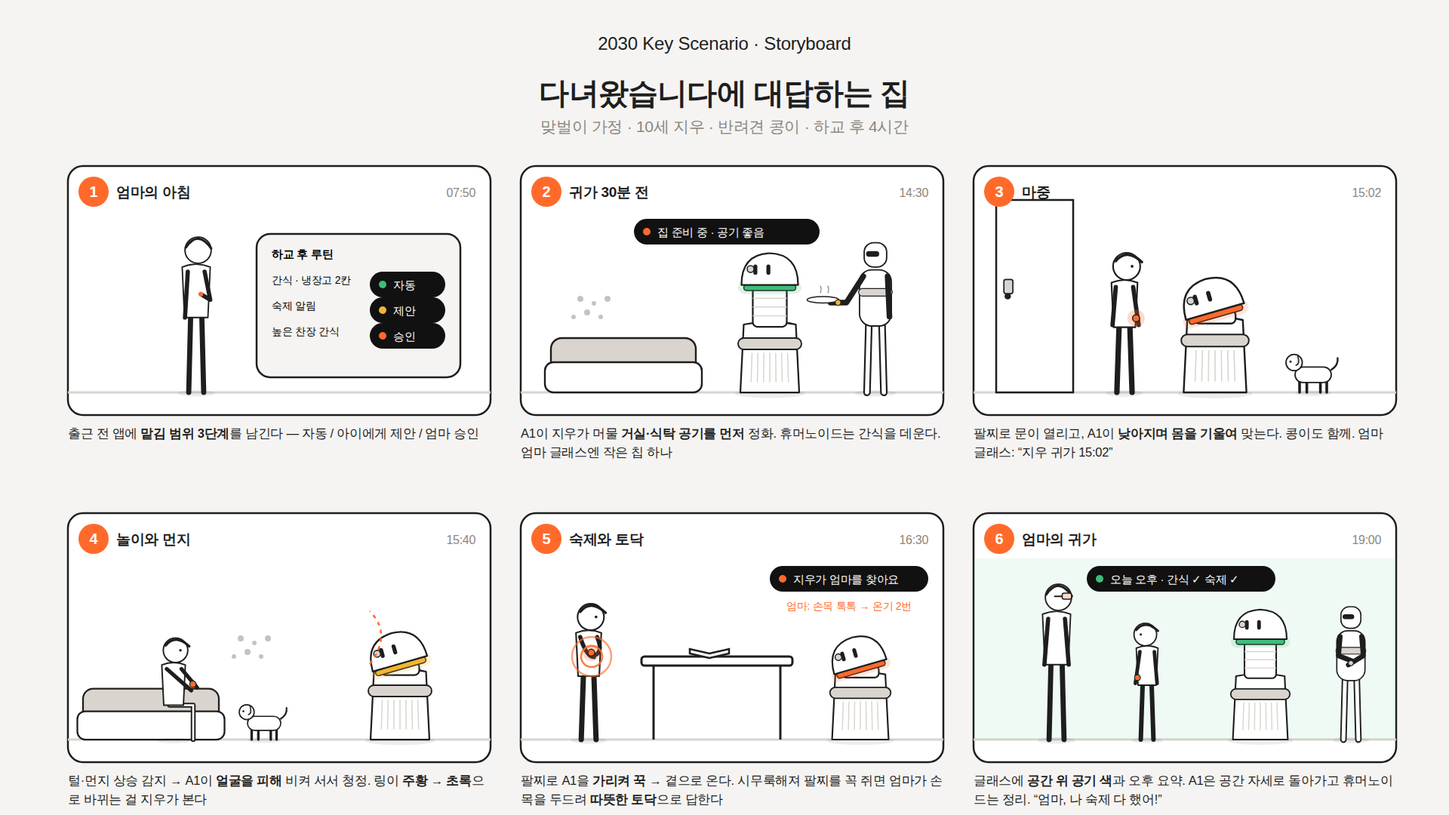
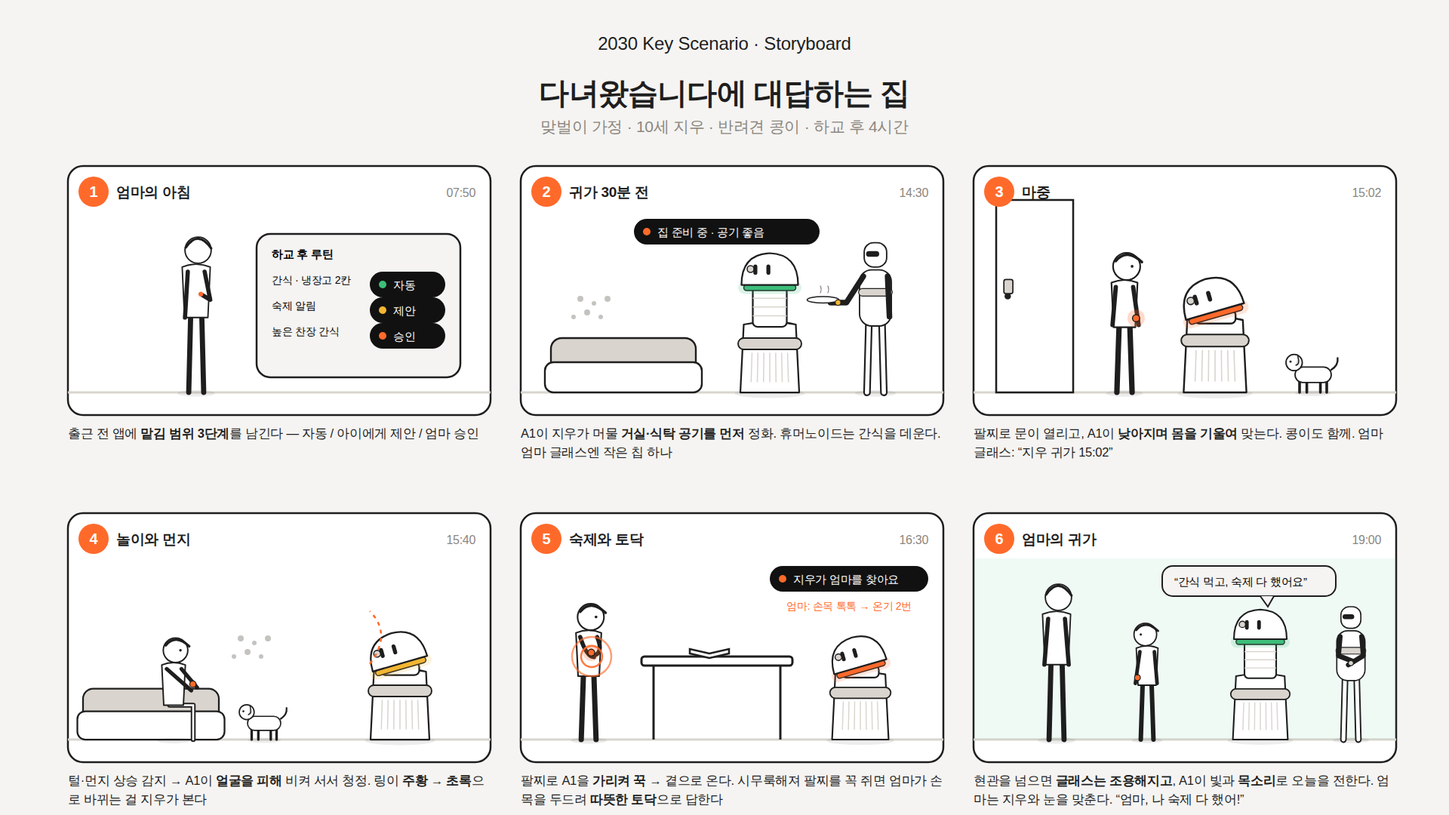
Add child/mom interaction spec; limit smart glasses to outside the home
Claude-Session: https://claude.ai/code/session_015ij7eoa9a3ivc7ktEptW1b

Changed region(s): [[0.6562, 0.9472, 0.9688, 1.0], [0.75, 0.6722, 0.9062, 0.7333]]

diff --git a/images/src/04_storyboard.html b/images/src/04_storyboard.html
@@ -85,15 +85,15 @@ svg text,div{font-family:Pretendard,sans-serif;letter-spacing:-0.3px}
       <clipPath id="cp6"><rect width="560" height="330" rx="20"/></clipPath>
       <g clip-path="url(#cp6)"><line x1="0" y1="300" x2="560" y2="300" stroke="#D9D5CE" stroke-width="3"/>
      <rect x="0" y="60" width="560" height="240" fill="#3DBE7A" opacity="0.08"/>
-     <g transform="translate(110 300) scale(0.62)"><ellipse cx="0" cy="2" rx="40" ry="7" fill="#1E1E1E" opacity="0.08"/><path d="M -12 -160 L -16 0 M 12 -160 L 16 0" fill="none" stroke="#1E1E1E" stroke-width="11" stroke-linecap="round" stroke-linejoin="round"/><path d="M -30 -268 Q 0 -280 30 -268 L 25 -160 L -25 -160 Z" fill="#FFFFFF" stroke="#1E1E1E" stroke-width="3" stroke-linecap="round" stroke-linejoin="round"/><circle cx="4" cy="-304" r="28" fill="#FFFFFF" stroke="#1E1E1E" stroke-width="3" stroke-linecap="round" stroke-linejoin="round"/><path d="M -22 -310 Q 4 -348 32 -308" fill="none" stroke="#1E1E1E" stroke-width="5" stroke-linecap="round" stroke-linejoin="round"/><line x1="-4" y1="-306" x2="34" y2="-306" stroke="#1E1E1E" stroke-width="3" stroke-linecap="round" stroke-linejoin="round"/><rect x="12" y="-313" width="20" height="13" rx="4" fill="#FFD9C7" stroke="#1E1E1E" stroke-width="2.5" stroke-linecap="round" stroke-linejoin="round"/><path d="M 18 -258 L 26 -160" fill="none" stroke="#1E1E1E" stroke-width="9" stroke-linecap="round" stroke-linejoin="round"/><path d="M -18 -258 L -26 -160" fill="none" stroke="#1E1E1E" stroke-width="9" stroke-linecap="round" stroke-linejoin="round"/></g>
+     <g transform="translate(110 300) scale(0.62)"><ellipse cx="0" cy="2" rx="40" ry="7" fill="#1E1E1E" opacity="0.08"/><path d="M -12 -160 L -16 0 M 12 -160 L 16 0" fill="none" stroke="#1E1E1E" stroke-width="11" stroke-linecap="round" stroke-linejoin="round"/><path d="M -30 -268 Q 0 -280 30 -268 L 25 -160 L -25 -160 Z" fill="#FFFFFF" stroke="#1E1E1E" stroke-width="3" stroke-linecap="round" stroke-linejoin="round"/><circle cx="4" cy="-304" r="28" fill="#FFFFFF" stroke="#1E1E1E" stroke-width="3" stroke-linecap="round" stroke-linejoin="round"/><path d="M -22 -310 Q 4 -348 32 -308" fill="none" stroke="#1E1E1E" stroke-width="5" stroke-linecap="round" stroke-linejoin="round"/><path d="M 18 -258 L 26 -160" fill="none" stroke="#1E1E1E" stroke-width="9" stroke-linecap="round" stroke-linejoin="round"/><path d="M -18 -258 L -26 -160" fill="none" stroke="#1E1E1E" stroke-width="9" stroke-linecap="round" stroke-linejoin="round"/></g>
      <g transform="translate(230 300) scale(0.6)"><ellipse cx="0" cy="2" rx="34" ry="6" fill="#1E1E1E" opacity="0.08"/><path d="M -10 -120 L -14 0 M 10 -120 L 14 0" fill="none" stroke="#1E1E1E" stroke-width="10" stroke-linecap="round" stroke-linejoin="round"/><path d="M -24 -202 Q 0 -212 24 -202 L 20 -120 L -20 -120 Z" fill="#FFFFFF" stroke="#1E1E1E" stroke-width="3" stroke-linecap="round" stroke-linejoin="round"/><circle cx="-4" cy="-232" r="25" fill="#FFFFFF" stroke="#1E1E1E" stroke-width="3" stroke-linecap="round" stroke-linejoin="round"/><path d="M -24 -242 Q -4 -266 24 -240" fill="none" stroke="#1E1E1E" stroke-width="5" stroke-linecap="round" stroke-linejoin="round"/><circle cx="-14" cy="-232" r="2.6" fill="#1E1E1E"/><path d="M -16 -194 L -26 -124" fill="none" stroke="#1E1E1E" stroke-width="8" stroke-linecap="round" stroke-linejoin="round"/><path d="M 16 -194 L 22 -124" fill="none" stroke="#1E1E1E" stroke-width="8" stroke-linecap="round" stroke-linejoin="round"/><circle cx="-21.32" cy="-136.6" r="6.5" fill="#FF6A2B" stroke="#1E1E1E" stroke-width="2"/></g>
      <g transform="translate(380 300) scale(0.7)"><ellipse cx="0" cy="2" rx="62" ry="8" fill="#1E1E1E" opacity="0.08"/><path d="M -52 0 L -46 -120 Q 0 -130 46 -120 L 52 0 Z" fill="#FFFFFF" stroke="#1E1E1E" stroke-width="3" stroke-linecap="round" stroke-linejoin="round"/><line x1="-33" y1="-18" x2="-31.349999999999998" y2="-70" stroke="#D9D5CE" stroke-width="2"/><line x1="-22" y1="-18" x2="-20.9" y2="-70" stroke="#D9D5CE" stroke-width="2"/><line x1="-11" y1="-18" x2="-10.45" y2="-70" stroke="#D9D5CE" stroke-width="2"/><line x1="0" y1="-18" x2="0" y2="-70" stroke="#D9D5CE" stroke-width="2"/><line x1="11" y1="-18" x2="10.45" y2="-70" stroke="#D9D5CE" stroke-width="2"/><line x1="22" y1="-18" x2="20.9" y2="-70" stroke="#D9D5CE" stroke-width="2"/><line x1="33" y1="-18" x2="31.349999999999998" y2="-70" stroke="#D9D5CE" stroke-width="2"/><rect x="-56" y="-96" width="112" height="20" rx="10" fill="#D9D5CE" stroke="#1E1E1E" stroke-width="2.5" stroke-linecap="round" stroke-linejoin="round"/><rect x="-30" y="-186" width="60" height="70" rx="8" fill="#FFFFFF" stroke="#1E1E1E" stroke-width="3" stroke-linecap="round" stroke-linejoin="round"/><line x1="-30" y1="-135.5" x2="30" y2="-135.5" stroke="#D9D5CE" stroke-width="2"/><line x1="-30" y1="-151" x2="30" y2="-151" stroke="#D9D5CE" stroke-width="2"/><line x1="-30" y1="-166.5" x2="30" y2="-166.5" stroke="#D9D5CE" stroke-width="2"/><g transform="translate(0 -182) rotate(0 0 -8)"><rect x="-46" y="-8" width="92" height="10" rx="5" fill="#3DBE7A" stroke="#1E1E1E" stroke-width="2" stroke-linecap="round" stroke-linejoin="round"/><rect x="-56" y="-14" width="112" height="22" rx="11" fill="#3DBE7A" opacity="0.18"/><path d="M -50 -8 Q -50 -62 0 -64 Q 50 -62 50 -8 Z" fill="#FFFFFF" stroke="#1E1E1E" stroke-width="3" stroke-linecap="round" stroke-linejoin="round"/><rect x="-29" y="-44" width="7" height="18" rx="3.5" fill="#1E1E1E"/><rect x="-6" y="-44" width="7" height="18" rx="3.5" fill="#1E1E1E"/><circle cx="-34" cy="-36" r="6" fill="#D9D5CE" stroke="#1E1E1E" stroke-width="2" stroke-linecap="round" stroke-linejoin="round"/></g></g>
      <g transform="translate(500 300) scale(0.55)"><ellipse cx="0" cy="2" rx="44" ry="7" fill="#1E1E1E" opacity="0.08"/><path d="M -14 -150 L -18 0 M 14 -150 L 18 0" fill="none" stroke="#1E1E1E" stroke-width="16" stroke-linecap="round" stroke-linejoin="round"/><path d="M -14 -150 L -18 0 M 14 -150 L 18 0" fill="none" stroke="#FFFFFF" stroke-width="9" stroke-linecap="round"/><rect x="-34" y="-262" width="68" height="120" rx="26" fill="#FFFFFF" stroke="#1E1E1E" stroke-width="3" stroke-linecap="round" stroke-linejoin="round"/><rect x="-36" y="-222" width="72" height="16" rx="8" fill="#D9D5CE" stroke="#1E1E1E" stroke-width="2" stroke-linecap="round" stroke-linejoin="round"/><rect x="-24" y="-320" width="48" height="52" rx="20" fill="#FFFFFF" stroke="#1E1E1E" stroke-width="3" stroke-linecap="round" stroke-linejoin="round"/><rect x="-20" y="-302" width="28" height="12" rx="6" fill="#1E1E1E"/><path d="M -26 -248 L -30 -202 L 6 -188" fill="none" stroke="#1E1E1E" stroke-width="12" stroke-linecap="round" stroke-linejoin="round"/><path d="M 26 -248 L 30 -202 L -6 -180" fill="none" stroke="#1E1E1E" stroke-width="12" stroke-linecap="round" stroke-linejoin="round"/><circle cx="0" cy="-184" r="6" fill="#D9D5CE" stroke="#1E1E1E" stroke-width="2" stroke-linecap="round" stroke-linejoin="round"/></g>
-     <g transform="translate(150 70)"><rect width="250" height="34" rx="17" fill="#111111"/><circle cx="17" cy="17" r="5" fill="#3DBE7A"/><text x="31" y="23" font-size="15" fill="#fff">오늘 오후 · 간식 ✓ 숙제 ✓</text></g></g>
+     <g transform="translate(250 70)"><rect width="230" height="40" rx="14" fill="#F5F4F2" stroke="#1E1E1E" stroke-width="2"/><path d="M 130 40 l 10 14 l 8 -14" fill="#F5F4F2" stroke="#1E1E1E" stroke-width="2"/><text x="16" y="26" font-size="15">“간식 먹고, 숙제 다 했어요”</text></g></g>
       <circle cx="34" cy="34" r="20" fill="#FF6A2B"/><text x="34" y="41" font-size="20" font-weight="700" fill="#fff" text-anchor="middle">6</text>
       <text x="64" y="41" font-size="19" font-weight="700" fill="#1E1E1E">엄마의 귀가</text>
       <text x="540" y="41" font-size="16" fill="#8C8780" text-anchor="end">19:00</text>
-      <foreignObject x="0" y="342" width="560" height="100"><div xmlns="http://www.w3.org/1999/xhtml" style="font-family:Pretendard,sans-serif;font-size:16.5px;line-height:1.5;color:#1E1E1E">글래스에 <b>공간 위 공기 색</b>과 오후 요약. A1은 공간 자세로 돌아가고 휴머노이드는 정리. “엄마, 나 숙제 다 했어!”</div></foreignObject>
+      <foreignObject x="0" y="342" width="560" height="100"><div xmlns="http://www.w3.org/1999/xhtml" style="font-family:Pretendard,sans-serif;font-size:16.5px;line-height:1.5;color:#1E1E1E">현관을 넘으면 <b>글래스는 조용해지고</b>, A1이 빛과 <b>목소리</b>로 오늘을 전한다. 엄마는 지우와 눈을 맞춘다. “엄마, 나 숙제 다 했어!”</div></foreignObject>
     </g>
 </svg>
 

diff --git a/images/src/06_state_language.html b/images/src/06_state_language.html
@@ -19,6 +19,6 @@ td:last-child{border-radius:0 14px 14px 0}
 .st{font-weight:700;width:270px}
 .sw{display:inline-block;width:64px;height:14px;border-radius:7px;margin-right:14px;vertical-align:middle;border:2px solid #1E1E1E}
 </style>
-<table><tr><th>상태</th><th>A1 링 라이트 / 휴머노이드 손목 빛</th><th>아이 팔찌</th><th>엄마 글래스</th><th>소리</th></tr><tr><td class="st">대기 · 괜찮음</td><td><span class="sw" style="background:#F0EEEA"></span>느린 숨</td><td>—</td><td>—</td><td>—</td></tr><tr><td class="st">듣는 중</td><td><span class="sw" style="background:#FFFFFF"></span>목소리 물결</td><td>—</td><td>—</td><td>—</td></tr><tr><td class="st">선택됨 (가리킴)</td><td><span class="sw" style="background:#FF6A2B"></span>아이 쪽으로 모임</td><td>톡 1회</td><td>—</td><td>짧은 띵</td></tr><tr><td class="st">이동 · 작업 중</td><td><span class="sw" style="background:#FF6A2B"></span>진행 방향 흐름</td><td>—</td><td>“간식 데우는 중 · 3분”</td><td>—</td></tr><tr><td class="st">확인 필요</td><td><span class="sw" style="background:#F2B632"></span>천천히 깜빡</td><td>톡톡 2회</td><td>승인 카드</td><td>물음 억양</td></tr><tr><td class="st">완료</td><td><span class="sw" style="background:#3DBE7A"></span>한 번 퍼짐</td><td>—</td><td>칩 사라짐</td><td>하강 2음</td></tr><tr><td class="st">공기 상태</td><td><span class="sw" style="background:linear-gradient(90deg,#3DBE7A,#F2B632,#FF6A2B)"></span>색만 (초록→주황)</td><td>—</td><td>귀가 시 공간 오버레이</td><td>—</td></tr><tr><td class="st">엄마의 토닥</td><td><span class="sw" style="background:#FFB08A"></span>—</td><td>온기 + 느린 진동 2회</td><td>—</td><td>—</td></tr><tr><td class="st">보고 있음</td><td><span class="sw" style="background:#1E1E1E"></span>셔터 열림 + 표시등</td><td>—</td><td>—</td><td>—</td></tr></table>
+<table><tr><th>상태</th><th>A1 링 라이트 / 휴머노이드 손목 빛</th><th>아이 팔찌</th><th>엄마 글래스</th><th>소리</th></tr><tr><td class="st">대기 · 괜찮음</td><td><span class="sw" style="background:#F0EEEA"></span>느린 숨</td><td>—</td><td>—</td><td>—</td></tr><tr><td class="st">듣는 중</td><td><span class="sw" style="background:#FFFFFF"></span>목소리 물결</td><td>—</td><td>—</td><td>—</td></tr><tr><td class="st">선택됨 (가리킴)</td><td><span class="sw" style="background:#FF6A2B"></span>아이 쪽으로 모임</td><td>톡 1회</td><td>—</td><td>짧은 띵</td></tr><tr><td class="st">이동 · 작업 중</td><td><span class="sw" style="background:#FF6A2B"></span>진행 방향 흐름</td><td>—</td><td>“간식 데우는 중 · 3분”</td><td>—</td></tr><tr><td class="st">확인 필요</td><td><span class="sw" style="background:#F2B632"></span>천천히 깜빡</td><td>톡톡 2회</td><td>승인 카드</td><td>물음 억양</td></tr><tr><td class="st">완료</td><td><span class="sw" style="background:#3DBE7A"></span>한 번 퍼짐</td><td>—</td><td>칩 사라짐</td><td>하강 2음</td></tr><tr><td class="st">공기 상태</td><td><span class="sw" style="background:linear-gradient(90deg,#3DBE7A,#F2B632,#FF6A2B)"></span>색만 (초록→주황)</td><td>—</td><td>집 밖에서 칩 색으로만</td><td>—</td></tr><tr><td class="st">엄마의 토닥</td><td><span class="sw" style="background:#FFB08A"></span>—</td><td>온기 + 느린 진동 2회</td><td>—</td><td>—</td></tr><tr><td class="st">보고 있음</td><td><span class="sw" style="background:#1E1E1E"></span>셔터 열림 + 표시등</td><td>—</td><td>—</td><td>—</td></tr></table>
 
 </body></html>

diff --git a/images/src/more.js b/images/src/more.js
@@ -133,12 +133,12 @@ module.exports = function addPages(pages) {
     '팔찌로 A1을 <b>가리켜 꾹</b> → 곁으로 온다. 시무룩해져 팔찌를 꼭 쥐면 엄마가 손목을 두드려 <b>따뜻한 토닥</b>으로 답한다')}
   ${panel(6, 2, 1, '엄마의 귀가', '19:00', `${floor()}
      <rect x="0" y="60" width="${pw}" height="240" fill="${C.green}" opacity="0.08"/>
-     ${adult(110, 300, { dir: 1, scale: 0.62 })}
+     ${adult(110, 300, { dir: 1, scale: 0.62, glasses: false })}
      ${child(230, 300, { dir: -1, scale: 0.6 })}
      ${a1(380, 300, { mode: 'space', dir: -1, scale: 0.7, glow: C.green })}
      ${humanoid(500, 300, { dir: -1, scale: 0.55, pose: 'yield' })}
-     ${chipSvg(150, 70, '오늘 오후 · 간식 ✓ 숙제 ✓', { w: 250, dot: C.green })}`,
-    '글래스에 <b>공간 위 공기 색</b>과 오후 요약. A1은 공간 자세로 돌아가고 휴머노이드는 정리. “엄마, 나 숙제 다 했어!”')}
+     <g transform="translate(250 70)"><rect width="230" height="40" rx="14" fill="${C.paper}" stroke="${C.ink}" stroke-width="2"/><path d="M 130 40 l 10 14 l 8 -14" fill="${C.paper}" stroke="${C.ink}" stroke-width="2"/><text x="16" y="26" font-size="15">“간식 먹고, 숙제 다 했어요”</text></g>`,
+    '현관을 넘으면 <b>글래스는 조용해지고</b>, A1이 빛과 <b>목소리</b>로 오늘을 전한다. 엄마는 지우와 눈을 맞춘다. “엄마, 나 숙제 다 했어!”')}
 </svg>
 `);
 
@@ -178,7 +178,7 @@ module.exports = function addPages(pages) {
     ['이동 · 작업 중', C.orange, '진행 방향 흐름', '—', '“간식 데우는 중 · 3분”', '—'],
     ['확인 필요', C.yellow, '천천히 깜빡', '톡톡 2회', '승인 카드', '물음 억양'],
     ['완료', C.green, '한 번 퍼짐', '—', '칩 사라짐', '하강 2음'],
-    ['공기 상태', 'linear-gradient(90deg,#3DBE7A,#F2B632,#FF6A2B)', '색만 (초록→주황)', '—', '귀가 시 공간 오버레이', '—'],
+    ['공기 상태', 'linear-gradient(90deg,#3DBE7A,#F2B632,#FF6A2B)', '색만 (초록→주황)', '—', '집 밖에서 칩 색으로만', '—'],
     ['엄마의 토닥', '#FFB08A', '—', '온기 + 느린 진동 2회', '—', '—'],
     ['보고 있음', C.ink, '셔터 열림 + 표시등', '—', '—', '—'],
   ];

diff --git a/interaction-child-mom.md b/interaction-child-mom.md
@@ -1,0 +1,168 @@
+# 아이와 엄마는 어떻게 인터랙션하는가
+
+> 키시나리오 「다녀왔습니다에 대답하는 집」의 인터랙션을 **사용자별로** 정리한 문서.
+> 상세 레퍼런스는 `interaction-design.md` 참고.
+
+---
+
+## 0. 전제 — AR(스마트글래스)은 집 밖에서만 쓴다
+
+**스마트글래스는 집 밖에 있는 엄마가 집과 연결되는 창이다. 집 안에서는 쓰지 않는다.**
+
+| 이유 | 설명 |
+|---|---|
+| **집은 화면 없는 공간** | 우리가 그리는 퓨처홈은 “화면을 보지 않아도 집이 알아서 맞춰 주는 곳”이다. 집 안에서까지 시야에 정보를 띄우면 이 비전과 어긋난다. |
+| **가족과 눈을 마주쳐야 할 때** | 엄마가 귀가해 아이를 마주하는 순간에 글래스 속 정보를 보면 아이에게 집중하지 못한다. |
+| **집에서는 벗는다** | 글래스는 출퇴근·업무용 기기다. 집 안에서도 착용해야 하는 시나리오는 억지스럽다. |
+| **집 안에는 이미 대체 수단이 있다** | 집 안에서는 Next A1의 몸·빛·소리, 음성, 팔찌로 충분하다. 같은 정보를 두 곳에 보여줄 필요가 없다. |
+
+**인계(핸드오프) 규칙:** 엄마가 현관에 들어서는 순간 글래스는 조용해지고, 그때부터 집의 정보는 **A1의 링 라이트와 음성**이 맡는다. 집을 나서면 다시 글래스로 넘어간다.
+
+```
+[집 밖]  엄마 ── 글래스(보기) + 손목(답하기) ──▶ 집
+              ────────── 현관 ──────────
+[집 안]  엄마 ── 말 · A1의 빛과 몸 · 앱(필요할 때만) ──▶ 집
+         지우 ── 말 · 팔찌 · A1 만지기 ──▶ 집        (지우는 처음부터 화면 없음)
+```
+
+---
+
+## 1. 아이(지우, 10세)의 인터랙션
+
+### 1.1 원칙
+- **화면이 없다.** 지우는 폰도 글래스도 없다. 팔찌와 목소리, 손이 전부다.
+- **외울 것이 거의 없다.** 팔찌 동작은 세 가지뿐: **가리키기 · 꾹 누르기 · 꼭 쥐기**.
+- **로봇이 몸으로 대답한다.** A1과 휴머노이드는 말보다 **자세·빛·짧은 소리**로 응답한다.
+- **아이가 스스로 하게 둔다.** 로봇은 다 해 주는 대신, 엄마가 정한 범위에서 **도와준다**.
+
+### 1.2 아이가 쓰는 입력
+
+| 입력 | 어떻게 | 무슨 뜻 | 기기 |
+|---|---|---|---|
+| **현관 들어오기** | 팔찌를 찬 채 문 앞에 섬 | “나 왔어” (UWB로 문이 열림) | 팔찌 → 도어락 |
+| **말하기** | “콩이 물 줘”, “숙제 이따 할래” | 부탁·거절·수정 | A1 마이크 |
+| **가리키고 꾹** | 팔찌 찬 손으로 A1이나 휴머노이드를 가리킨 뒤 팔찌를 꾹 누름 | “너, 이리 와” | 팔찌 (UWB 방향 + 압력) |
+| **가리키며 말하기** | 휴머노이드를 가리키며 “저거 꺼내줘” | 대상 지정 + 부탁 | 팔찌 + A1 카메라 |
+| **꼭 쥐기 (2초)** | 팔찌를 손으로 감싸 쥠 | “엄마 생각나” (긴급 아님) | 팔찌 |
+| **세 번 꾹 + 길게** | 꾹꾹꾹 누르고 길게 | “도와줘” (긴급) | 팔찌 |
+| **쓰다듬기** | A1 몸통의 부드러운 밴드를 쓰다듬음 | 정서적 교감 (명령 아님) | A1 실리콘 밴드 |
+| **헤드 가리기** | A1 머리를 손으로 덮음 | “지금은 보지 마” (카메라 셔터 닫힘) | A1 헤드 |
+
+### 1.3 아이가 받는 출력
+
+| 출력 | 어떻게 느끼나 | 언제 |
+|---|---|---|
+| **A1의 마중 자세** | A1이 다가와 키를 낮추고 몸을 기울여 올려다봄 | 귀가할 때 |
+| **링 라이트 색** | 초록(공기 좋음) → 주황(먼지 많음), 다시 초록으로 | 놀이 중 먼지가 날 때 |
+| **빛이 나에게 모임** | 가리킨 로봇의 빛이 지우 쪽으로 모임 | 가리켰을 때 (“나 말이야?”) |
+| **짧은 소리** | 띵(알아들음), 하강 2음(끝났어) | 요청을 받고 끝냈을 때 |
+| **휴머노이드의 몸짓** | 꺼낼 물건을 1초 바라봄, 지나갈 때 팔을 접고 비켜섬 | 작업할 때, 마주칠 때 |
+| **팔찌의 톡** | 짧은 진동 1회(선택됨), 2회(확인 필요) | 가리켰을 때, 엄마 승인을 기다릴 때 |
+| **엄마의 토닥** | 손목이 **따뜻해지며 느린 진동 두 번** | 엄마가 회사에서 답했을 때 |
+
+### 1.4 지우의 오후 — 인터랙션 흐름
+
+| 시각 | 지우가 하는 것 | 집이 하는 것 |
+|---|---|---|
+| **15:02** | 팔찌를 찬 채 현관에 들어선다 | 문이 열리고 A1이 마중 나와 낮아진다. 링이 따뜻하게 켜지고 상승음 한 번. 식탁엔 휴머노이드가 데운 간식을 놓는다 |
+| 15:05 | 간식을 집으려 한다 | A1: *“손 먼저 씻자.”* (엄마가 남긴 설정) |
+| **15:40** | 콩이와 쿠션 요새를 만들며 논다 | 먼지가 오르면 A1이 지우 얼굴을 피해 옆에서 청정. 링이 주황 → 초록. **말은 하지 않는다** |
+| **16:30** | 쿠션에서 일어나 장난감을 내려놓는다 | 놀이가 끝난 순간 A1이 헤드를 식탁 쪽으로 돌리며 *“숙제 할까?”* **제안만 한다** |
+| 16:31 | “10분만 더” | A1이 받아들이고 10분 뒤 한 번만 다시 묻는다 |
+| 16:45 | 식탁에 앉아 A1을 가리키고 팔찌를 꾹 | A1 빛이 지우 쪽으로 모이고, 식탁 옆으로 와 조용한 곁 자세로 머문다 |
+| 17:00 | 휴머노이드를 가리키며 “찬장 과자 꺼내줘” | 휴머노이드가 찬장을 바라본다(대상 확인). 엄마 승인 항목이라 팔찌가 **톡톡** — “엄마한테 물어볼게” |
+| 17:02 | 기다린다 | 엄마가 거절 → 휴머노이드: *“엄마가 저녁 먹고 먹재.”* 찬장은 닫힌 채 |
+| **17:20** | 문제가 안 풀려 시무룩, 팔찌를 꼭 쥔다 | (엄마 글래스로 신호가 간다) |
+| 17:21 | — | 팔찌가 따뜻해지며 느린 진동 두 번 = **엄마의 토닥**. 지우가 A1의 밴드를 쓰다듬자 빛이 손을 따라 천천히 흐른다 |
+| **19:00** | 엄마가 오자 현관으로 달려간다 | A1은 공간 자세로 돌아가고, 휴머노이드는 쿠션을 정리한다 |
+
+### 1.5 아이에게 하지 않는 것
+- 화면으로 정보 보여주기, 폰 지급을 전제로 하기
+- 쓰다듬기를 명령으로 해석하기 (만져도 집의 설정은 바뀌지 않는다)
+- 놀이 중에 말 걸기, 같은 제안 3번 이상 반복하기
+- 엄마가 승인으로 정해 둔 일을 아이 요청만으로 실행하기
+- 아이 몰래 엄마가 보기 (보고 있을 때는 셔터가 열리고 표시등이 켜진다)
+
+---
+
+## 2. 엄마(수진)의 인터랙션
+
+### 2.1 원칙
+- **엄마의 하루는 세 장소로 나뉜다:** 집(아침) → 집 밖(회사·지하철) → 집(저녁).
+- **장소마다 쓰는 기기가 다르다.** 아침엔 앱, 집 밖에선 **글래스 + 손목**, 저녁 집에선 **말과 A1**.
+- **엄마는 감시자가 아니라 돌봄을 미리 남기는 사람이다.** 실시간으로 지켜보기보다 **아침에 맡기고, 필요한 순간에만 답한다**.
+- **업무를 끊지 않는다.** 집 밖에서 오는 신호는 알림이 아니라 시야 구석의 **작은 칩**이다.
+
+### 2.2 장소별 인터랙션
+
+#### ① 아침, 집 — 앱으로 맡긴다 (07:50)
+
+| 엄마가 하는 것 | 결과 |
+|---|---|
+| 하이나무 앱에서 ‘하교 후 루틴’을 연다 | 지우 하교 시간 15:00 확인 |
+| 할 일마다 **맡김 범위**를 고른다 | **자동**: 간식 데우기, 귀가 전 청정 / **아이에게 제안**: 숙제 시작, 손 씻기 / **엄마 승인**: 찬장 간식, 외출 |
+| 간식 위치를 적는다 | “냉장고 2번째 칸, 딸기 통” |
+| 짧은 음성 메시지를 녹음한다 | 지우가 엄마를 찾았는데 엄마가 바로 못 받을 때 A1이 들려줌 |
+
+> 앱은 **아침의 설정판**이다. 하루 중에 앱을 다시 열 필요가 없게 하는 것이 목표다.
+
+#### ② 집 밖, 회사·지하철 — 글래스로 보고 손목으로 답한다 (14:30 ~ 18:50)
+
+| 순간 | 글래스에 보이는 것 | 엄마가 하는 것 |
+|---|---|---|
+| 14:30 | 시야 구석 칩: *“집 준비 중 · 공기 좋음”* | 아무것도 안 해도 된다 |
+| 15:02 | 칩: *“지우 귀가 15:02 · 간식 준비 완료”* | 흘끗 보고 끝 |
+| 17:00 | 승인 카드: *“지우가 찬장 과자를 원해요”* + 사진 한 장 | **검지 핀치 = 허용 / 중지 핀치 = 거절**. 5분 동안 답이 없으면 거절로 처리 |
+| 17:20 | 칩: *“지우가 엄마를 찾아요”* | **손목을 두 번 두드린다** → 지우 팔찌에 엄마의 토닥 |
+| 필요할 때 | — | 칩을 길게 보면 A1 라이브 뷰(셔터 열림·표시등 켜짐을 지우도 앎) |
+| 18:30 지하철 | 오늘 오후 요약: *“간식 ✓ · 숙제 ✓ · 토닥 1번”* | 읽기만 한다 |
+| 긴급 | 지우가 “도와줘” 신호를 보내면 글래스 + 폰 동시 알림 | 즉시 통화·라이브 뷰 |
+
+> 글래스에는 **문장 한 줄, 카드 한 장**만. 긴 대화나 영상 스트리밍은 기본값이 아니다.
+
+#### ③ 저녁, 집 — 글래스는 내려놓고 말과 A1로 (19:00 ~)
+
+| 순간 | 엄마가 하는 것 | 집이 하는 것 |
+|---|---|---|
+| **현관 진입** | 글래스를 벗거나, 쓰고 있어도 **글래스는 조용해진다** | A1이 링 라이트로 집 공기 상태를 보여준다 (초록이면 괜찮음) |
+| 아이를 맞음 | 지우와 눈을 맞춘다 | A1은 공간 자세로 돌아가 거실 전체를 정화, 휴머노이드는 장난감 정리 |
+| 오늘 궁금할 때 | “오늘 지우 어땠어?” | A1이 **목소리로 짧게**: “간식 먹고, 콩이랑 놀고, 숙제 다 했어요. 4시 반쯤 엄마를 한 번 찾았어요.” |
+| 바꾸고 싶을 때 | “내일은 숙제를 3시 반에 시작하게 해줘” | A1이 내일 루틴에 반영하고 링 초록으로 완료 표시 |
+| 자세히 보고 싶을 때 | 앱에서 하루 기록 확인 | 필요할 때만 |
+
+> 집 안의 엄마는 **아이와 같은 방식**(말·A1의 빛과 몸)으로 집을 쓴다. 엄마만을 위한 화면이 따로 없다.
+
+### 2.3 엄마가 쓰는 입력 · 받는 출력 요약
+
+| | 아침 · 집 | 낮 · 집 밖 | 저녁 · 집 |
+|---|---|---|---|
+| **입력** | 앱 설정, 음성 녹음 | 글래스 흘끗 보기, 손가락 핀치, 손목 두드리기 | 말 |
+| **출력** | 앱 화면 | 글래스 칩·카드·요약 | A1 링 라이트, A1 음성 |
+| **AR** | ✕ | **○ (유일하게 사용)** | ✕ |
+
+### 2.4 엄마에게 하지 않는 것
+- 집 안에서 글래스에 정보 띄우기 (공기 오버레이, 로봇 경로 표시 등)
+- 업무 중에 진동·소리 알림으로 끊기 (긴급 신호만 예외)
+- 아이가 모르게 보기
+- 매번 승인 요청하기 (반복 요청은 *“오늘 3번째”* 로 묶어서 표시)
+
+---
+
+## 3. 아빠(민호) — 설정하지 않는 가족
+
+- 아빠는 앱 설정을 하지 않는다. 그래도 **말 한마디로** 집을 똑같이 쓸 수 있어야 한다.
+- “A1, 조용히 해줘”, “지우 숙제 했어?”처럼 말하면 A1이 같은 방식(빛·음성)으로 답한다.
+- 퇴근길 글래스를 쓴다면 엄마와 같은 칩을 받을 수 있지만, 승인 권한은 엄마가 정한 범위 안에서만.
+
+---
+
+## 4. 한눈에 보기
+
+| | 지우 (아이) | 엄마 (집 밖) | 엄마·아빠 (집 안) |
+|---|---|---|---|
+| **주 입력** | 말, 팔찌(가리키기·꾹·꼭 쥐기), A1 만지기 | 글래스 흘끗, 핀치, 손목 두드리기 | 말 |
+| **주 출력** | A1 자세·빛·소리, 휴머노이드 몸짓, 팔찌 온기 | 글래스 칩·카드 | A1 빛·음성 |
+| **화면** | 없음 | 글래스(AR) | 없음 (앱은 필요할 때만) |
+| **핵심 순간** | 마중, 가리켜 부르기, 엄마의 토닥 | 귀가 확인, 원격 승인, 토닥 보내기 | 눈 맞추며 맞이하기, “오늘 어땠어?” |
+
+> **한 줄 요약:** 아이는 처음부터 화면 없이, 엄마는 집 밖에서만 글래스로. 현관을 넘으면 모두가 **말과 Next A1의 몸**으로 집과 대화한다.

diff --git a/phase1-final-report.md b/phase1-final-report.md
@@ -65,7 +65,7 @@
 ### 전제 1. 스마트글래스가 부모의 ‘두 번째 화면’이 된다
 - 메타가 2026년 1분기 스마트글래스 시장의 69.2%를 점유했고(IDC, CNBC 인용), 삼성·구글은 젠틀몬스터·워비파커와 만든 **Android XR 글래스를 2026년 가을 출시**한다고 밝혔다 ([Tom's Guide](https://www.tomsguide.com/computing/smart-glasses/samsung-just-confirmed-its-android-xr-smart-glasses-will-launch-this-year-heres-how-they-can-beat-ray-ban-meta), [eWeek](https://www.eweek.com/news/samsung-google-first-android-xr-smart-glasses/)).
 - 2030년에는 **출퇴근하는 30~40대 부모**가 글래스를 쓰는 것이 자연스럽다고 가정한다. 회사·지하철에서 폰을 꺼내지 않고 집의 상태를 **시야 한 귀퉁이에서** 확인한다.
-- 시사점: 부모용 인터페이스는 **글래스(보기) + 손목(확인)**, 앱은 아침 설정과 기록 확인용.
+- 시사점: 부모용 인터페이스는 **글래스(보기) + 손목(확인)**, 앱은 아침 설정과 기록 확인용. **단, 글래스(AR)는 집 밖에서만 쓴다** — 집 안에서는 말과 A1의 빛·몸이 맡는다 (상세: [interaction-child-mom.md](interaction-child-mom.md)).
 
 ### 전제 2. 아이와 집 사이에는 ‘화면 없는 웨어러블’
 - 화면 피로와 알림 부담 때문에 Fitbit Air(2026.5), Garmin CIRQA(2026.7) 같은 **화면 없는 밴드**가 등장했다 ([Hindustan Times](https://www.hindustantimes.com/htcity/wellness/screen-fatigue-constant-notifications-and-health-anxiety-why-are-fitness-wearables-ditching-displays-101785325405113.html/), [Google](https://blog.google/products-and-platforms/devices/fitbit/fitbit-air/), [Garmin](https://www.garmin.com/en-CA/blog/news/meet-cirqa-smart-band-the-screen-free-health-and-fitness-tracker-from-garmin/)).
@@ -119,7 +119,7 @@
 | **Next A1** | 호출, 설정, 상태 확인 | 아이가 있는 자리로 **이동해 공기를 맞추고**, 몸을 기울여 **곁에 머문다** |
 | **휴머노이드** | 명령 전달 | 간식을 **데워서 내려놓고**, 블라인드를 **직접 돌린다** |
 | **아이 팔찌** | 알림 | ① 화면 없이 **UWB로 신원·위치를 증명**(현관 인증, 포인팅) ② 엄마의 **‘토닥’을 온기와 진동으로** 손목에 전달. 10세 아이에게 폰 없이 줄 수 있는 연결 |
-| **부모 글래스** | 알림 확인 | 일하면서 **고개를 들기만 하면** 아이 상태 확인, 작은 손동작으로 승인. 귀가 시 **집 공기 상태를 공간 위 색으로** 확인 |
+| **부모 글래스** | 알림 확인 | 일하면서 **고개를 들기만 하면** 아이 상태 확인, 작은 손동작으로 승인. **집 밖에서만 사용**, 현관을 넘으면 A1에게 인계 |
 
 ---
 
@@ -140,7 +140,7 @@
 | **③ 마중 (히어로샷)** | 15:02 | 지우의 팔찌가 UWB로 도어락을 연다. A1이 현관으로 다가와 **키를 낮추고 몸을 기울여 맞는다**. 링 라이트가 따뜻하게 켜진다. 콩이가 꼬리를 흔들며 함께 나온다. 뒤로는 휴머노이드가 데운 간식 접시를 식탁에 내려놓는다. 엄마 글래스: *“지우 귀가 15:02”*. | **공간 자세 → 곁 자세 변형**, 펫 같은 마중, 세 기기의 역할이 한 컷에 |
 | **④ 놀이와 먼지** | 15:40 | 지우가 콩이와 쿠션 요새를 만들며 논다. 털과 먼지가 날린다. 방 센서와 A1 센서가 PM 상승을 감지하고, A1은 **아이 얼굴로 바람이 직접 가지 않게** 비켜 서서 청정한다. 링 라이트가 주황에서 초록으로 바뀌는 것을 지우가 지켜본다. | 음성 대신 **시각 피드백**, 아이 자리 우선 공기 |
 | **⑤ 숙제와 외로움** | 16:30 | 놀이가 끝나자 A1이 숙제를 **제안**한다. 지우는 식탁에 앉고 팔찌 찬 손으로 A1을 가리켜 꾹 누른다 → A1이 식탁 옆에 와 조용한 곁 자세로 머문다. 높은 찬장의 과자를 휴머노이드에게 부탁하자 **엄마 승인** 요청이 글래스로 간다. 엄마는 회의 중 검지를 살짝 맞대 승인한다. 문제가 안 풀려 시무룩해진 지우가 팔찌를 **꼭 쥔다** → 엄마 글래스에 *“지우가 엄마를 찾아요”*. 엄마가 손목을 두 번 두드리면 지우의 팔찌가 **따뜻하게 두 번 토닥인다**. | UWB 포인팅(H2), 원격 승인, **팔찌만의 역할 = 엄마의 토닥** |
-| **⑥ 엄마의 귀가** | 18:30 → 19:00 | 퇴근길 지하철, 엄마 글래스에 오늘의 오후가 짧은 타임라인으로 정리된다. 현관에 들어서면 글래스가 거실 공기 상태를 **공간 위 색으로** 보여준다. A1은 다시 키를 높인 **공간 자세**로 돌아가 거실 전체를 정화하고, 휴머노이드는 쿠션 요새를 치운다. 지우가 달려와 말한다. “엄마, 나 숙제 다 했어!” | 감시가 아닌 **요약된 돌봄 기록**, 자세 복귀 |
+| **⑥ 엄마의 귀가** | 18:30 → 19:00 | 퇴근길 지하철, 엄마 글래스에 오늘의 오후가 짧은 타임라인으로 정리된다. 현관에 들어서면 **글래스는 조용해지고**, A1의 링 라이트가 집 공기 상태를 보여준다. 엄마가 “오늘 지우 어땠어?” 물으면 A1이 목소리로 짧게 답한다. A1은 다시 키를 높인 **공간 자세**로 돌아가 거실 전체를 정화하고, 휴머노이드는 쿠션 요새를 치운다. 지우가 달려와 말한다. “엄마, 나 숙제 다 했어!” | 감시가 아닌 **요약된 돌봄 기록**, 글래스 → A1 인계, 자세 복귀 |
 
 > **히어로샷 카피:** *“엄마가 남긴 오후를, 집이 이어받는다.”*
 > **보조 카피:** *“혼자인 오후, 혼자가 아니게.”*
@@ -153,7 +153,7 @@
 | ③ | 팔찌 UWB(신원·거리·방향), 도어락 | 허브: 등록된 아이 → 잠금 해제. A1: 마중 실행 | A1 현관 이동, 곁 자세 / 휴머노이드 서빙 | A1 링 라이트·짧은 소리 / 엄마 글래스 |
 | ④ | 방 센서 + A1 PM·VOC, A1 카메라(아이 위치) | A1: 오염원 근처, 아이 얼굴 방향 회피 | A1 위치·풍향 조정 | A1 링 컬러(주황→초록) |
 | ⑤ | 놀이 종료(활동 경계), 팔찌 IMU+UWB 포인팅, 팔찌 압력 | A1: 제안 시점 / 허브: 승인 정책 확인 | A1 곁 이동 / 휴머노이드 찬장 개방(승인 후) / 팔찌 햅틱 | 엄마 글래스 승인 요청 → 뉴럴밴드식 핀치 / 지우 팔찌 온기·진동 |
-| ⑥ | 엄마 위치(퇴근), 집 센서 | A1: 귀가 전 청정 계획, 하루 요약 생성 | A1 공간 자세 복귀 / 휴머노이드 정리 | 글래스 타임라인·공기 컬러 오버레이 |
+| ⑥ | 엄마 위치(퇴근), 집 센서 | A1: 귀가 전 청정 계획, 하루 요약 생성 | A1 공간 자세 복귀 / 휴머노이드 정리 | 퇴근길 글래스 요약 → 집 안에선 A1 링 라이트·음성 |
 
 ### 6.4 실패·예외도 시나리오에 넣는다
 - 콩이가 휴머노이드 경로에 들어오면 **멈춰서 기다리고**, A1 링에 ‘잠깐 대기’ 표시.
@@ -173,7 +173,7 @@
 | **휴머노이드** | **엄마의 손을 이어받는 물리 파트너** | 데우기·서빙, 찬장·뚜껑, 비전동 블라인드·문, 장난감·쿠션 정리, 반려견 물 보충 | 상황 판단(무엇이 필요한지)은 A1이 결정, 아이 곁 상주 |
 | **홈 IoT (Matter)** | **방마다 깔린 감각과 스위치** | 방별 공기질·재실 감지, **조명·온도** 제어, 도어락 | 문·창문 개폐 (로봇의 영역) |
 | **아이 팔찌** | **아이의 열쇠이자 엄마의 손** | UWB 신원·위치, 포인팅 호출, 꾹 쥐기 = 엄마 찾기, 온기·진동 수신 | 화면, 생체 정밀 측정 |
-| **부모 글래스** | **집을 보는 작은 창** | 상태 칩, 승인 요청, 귀가 시 공기 오버레이, 하루 요약 | 상시 영상 스트리밍 |
+| **부모 글래스** | **집을 보는 작은 창** | **집 밖에서만**: 상태 칩, 승인 요청, 퇴근길 하루 요약 | 집 안 AR 표시, 상시 영상 스트리밍 |
 | **하이나무 앱** | **아침의 설정판** | 루틴·맡김 범위·프라이버시 설정, 기록 확인 | 일상 조작 |
 
 ### 7.2 구조도
@@ -219,8 +219,8 @@
 |---|---|---|
 | **텔레스코픽 넥 + 틸트 헤드** | 몸통 상부가 상하로 슬라이드, 헤드가 앞뒤 ±20° 기울어짐. 관절은 외피 안에 숨김 | 마중·곁 자세(③⑤). Astro·ELEGNT처럼 **움직임으로 의도 표현**. “관절을 숨겨라”(교수님) |
 | **소프트 실리콘 밴드** | 아이 무릎·반려견 높이의 둘레에 교체형 탄성 밴드. 압력 센서 내장 | 부딪혀도 덜 아픔(Sunday Memo 참고). **쓰다듬으면 링 라이트가 숨 쉬듯 반응**만 하고 제어는 하지 않음(H5) |
-| **링 라이트 = 공기 언어** | 헤드와 몸통 경계의 빛 띠. 공기 상태(색), 듣는 중(물결), 이동 방향(빛 흐름) | 음성 대신 시각 피드백(④), 엄마 글래스의 오버레이와 같은 색 체계 |
-| **헤드 디스플레이 축소** | 큰 화면 대신 작은 눈 표현 + 짧은 아이콘. 상세 정보는 글래스·앱으로 | 부모는 글래스, 아이에겐 표정이면 충분 → 화면 피로 감소 |
+| **링 라이트 = 공기 언어** | 헤드와 몸통 경계의 빛 띠. 공기 상태(색), 듣는 중(물결), 이동 방향(빛 흐름) | 음성 대신 시각 피드백(④), 집 밖 엄마의 글래스 칩과 같은 색 체계 |
+| **헤드 디스플레이 축소** | 큰 화면 대신 작은 눈 표현 + 짧은 아이콘. 상세 정보는 음성·앱으로 | 집 안에서는 누구도 화면을 볼 필요가 없게 → 화면 피로 감소 |
 | **물리 카메라 셔터** | 헤드 카메라에 기계식 가림막. 열리면 헤드가 원격 시청자 방향을 향함 | 프라이버시가 **눈에 보이게**(H5) |
 | **UWB 앵커 + mmWave 레이더** | 팔찌 방향·거리 측정, 카메라 없이 재실·움직임 감지 | 포인팅 호출(⑤), 아이 위치 기반 이동 |
 | **Matter 컨트롤러 / Thread 보더라우터** | 백서의 차세대 Matter 계획을 구체화 | IoT 조명·온도 연동, 다른 브랜드 허브와 공존 |
@@ -231,7 +231,7 @@
 ### 8.2 휴머노이드: “양보하는 몸”
 - **외피:** A1과 같은 소프트 실리콘·패브릭 외장, 관절은 덮개로 숨기고 끼임 부위를 최소화.
 - **시그니처 동작:** 아이나 반려견이 가까이 오면 **팔을 몸쪽으로 접고 한 걸음 물러남** → ‘지나가도 돼’가 자세로 읽힘.
-- **작업 상태:** 손목에 A1과 같은 링 라이트 문법. 지금 무엇을 들고 어디로 가는지 A1 화면과 글래스에 함께 표시.
+- **작업 상태:** 손목에 A1과 같은 링 라이트 문법. 지금 무엇을 들고 어디로 가는지 A1 링 라이트와 손목 빛으로 표시(집 밖의 엄마에게는 글래스 칩으로).
 - **SK의 위치:** 휴머노이드는 SK가 직접 만들기보다 **A1 SDK/API로 연결되는 파트너 기기**로 두는 편이 현실적이다(백서의 개발자 생태계 구상).
 
 ### 8.3 아이 팔찌: “열쇠이자 엄마의 손”
@@ -242,7 +242,7 @@
 - **고유 역할 (제어 외):** ① 집에 들어오는 열쇠 ② 엄마의 토닥임을 받는 곳. 제어 기능을 빼도 찰 이유가 남는다.
 
 ### 8.4 부모 글래스: 새로 만들지 않는다
-- 삼성·메타 등 **상용 글래스에 하이나무 앱 경험을 얹는다**. 우리가 디자인하는 것은 **글래스 안의 UI**: 상태 칩, 승인 카드, 공기 오버레이, 귀가 타임라인.
+- 삼성·메타 등 **상용 글래스에 하이나무 앱 경험을 얹는다**. 우리가 디자인하는 것은 **글래스 안의 UI**: 상태 칩, 승인 카드, 퇴근길 요약. **집 안에서는 글래스를 쓰지 않는다** — 집은 화면 없는 공간으로 두고, 가족과 눈을 맞추는 순간을 방해하지 않기 위해서다.
 
 ---
 

diff --git a/interaction-design.md b/interaction-design.md
@@ -126,11 +126,11 @@
 | **확인 필요** | 노란빛 천천히 깜빡 | 노란빛 | 톡톡 2회 | 승인 카드 | 물음 억양음 |
 | **완료** | 초록빛 한 번 퍼짐 | 초록 한 번 | — | 칩 사라짐 | 하강 2음 |
 | **멈춤·양보** | 빛 고정 | 팔 접기 + 빛 낮춤 | — | — | — |
-| **공기 상태** | 초록 → 노랑 → 주황 (색만) | — | — | 귀가 시 공간 오버레이 같은 색 | — |
+| **공기 상태** | 초록 → 노랑 → 주황 (색만) | — | — | 집 밖에서 칩 색으로만 (집 안 AR 없음) | — |
 | **엄마의 토닥** | — | — | 온기 + 느린 진동 2회 | — | — |
 | **보고 있음 (라이브 뷰)** | 셔터 열림 + 작은 표시등 | — | — | — | — |
 
-> **규칙:** 색만으로 뜻을 외우게 하지 않는다. **색 + 움직임 패턴 + (필요 시) 짧은 글자**를 함께 쓴다. 공기 상태 색은 A1과 글래스가 반드시 같다.
+> **규칙:** 색만으로 뜻을 외우게 하지 않는다. **색 + 움직임 패턴 + (필요 시) 짧은 글자**를 함께 쓴다. 공기 상태 색은 A1과 글래스 칩이 반드시 같다. **글래스(AR)는 집 밖에서만** 쓰며, 현관을 넘으면 A1이 인계한다 ([interaction-child-mom.md](interaction-child-mom.md)).
 
 ---
 
@@ -139,7 +139,7 @@
 | | 지우 (10세) | 엄마 | 아빠 (설정 안 함) |
 |---|---|---|---|
 | **입력** | 음성, 가리키기, 팔찌 꾹·꼭 쥐기, A1 쓰다듬기·헤드 덮기 | 아침 앱 설정, 글래스 핀치, 손목 두드리기, 음성 | 음성만으로 모든 기본 요청·정지 가능 |
-| **출력** | A1 자세·빛·작은 소리, 휴머노이드 몸짓, 팔찌 온기 | 글래스 칩·카드·오버레이, 저녁 타임라인 | A1 빛·음성 응답 |
+| **출력** | A1 자세·빛·작은 소리, 휴머노이드 몸짓, 팔찌 온기 | 집 밖: 글래스 칩·카드·퇴근길 요약 / 집 안: A1 빛·음성 | A1 빛·음성 응답 |
 | **할 수 없는 것** | 엄마 승인 항목 우회, 다른 가족 설정 변경 | 아이 몰래 보기 | — |
 
 > NN/g가 지적한 **“설정하는 사람에게 요청이 몰리는 문제”** 를 아빠 칸이 보여준다. 설정하지 않은 가족도 **말 한마디**로 같은 집을 쓸 수 있어야 한다 ([NN/g](https://www.nngroup.com/articles/smart-home-users/)).
@@ -173,5 +173,5 @@
 | **바디스토밍** (팀원이 A1·휴머노이드 역할) | M1 마중, M7 비켜서기 | 높이 조절되는 박스 목업, 휠체어·카트 |
 | **오즈의 마법사** (숨은 조작자가 반응) | M2 가리키기, M9 제안 타이밍 | 블루투스 버튼 팔찌, LED 링, 스피커 |
 | **촉각 스케치** | M4 쓰다듬기, M5 토닥 | 실리콘 시트 + 압력 센서(아두이노), 진동 모터·펠티어 |
-| **글래스 UI 와이어프레임** | M6 승인, 귀가 오버레이 | Figma로 시야 프레임 위 칩·카드 구성 |
+| **글래스 UI 와이어프레임** | M6 승인, 퇴근길 요약 (집 밖 한정) | Figma로 시야 프레임 위 칩·카드 구성 |
 | **상태 언어 테스트** | §3 전체 | LED 패턴 영상 10종을 보여주고 의미 맞히기 (Baraka 연구 방식) |
